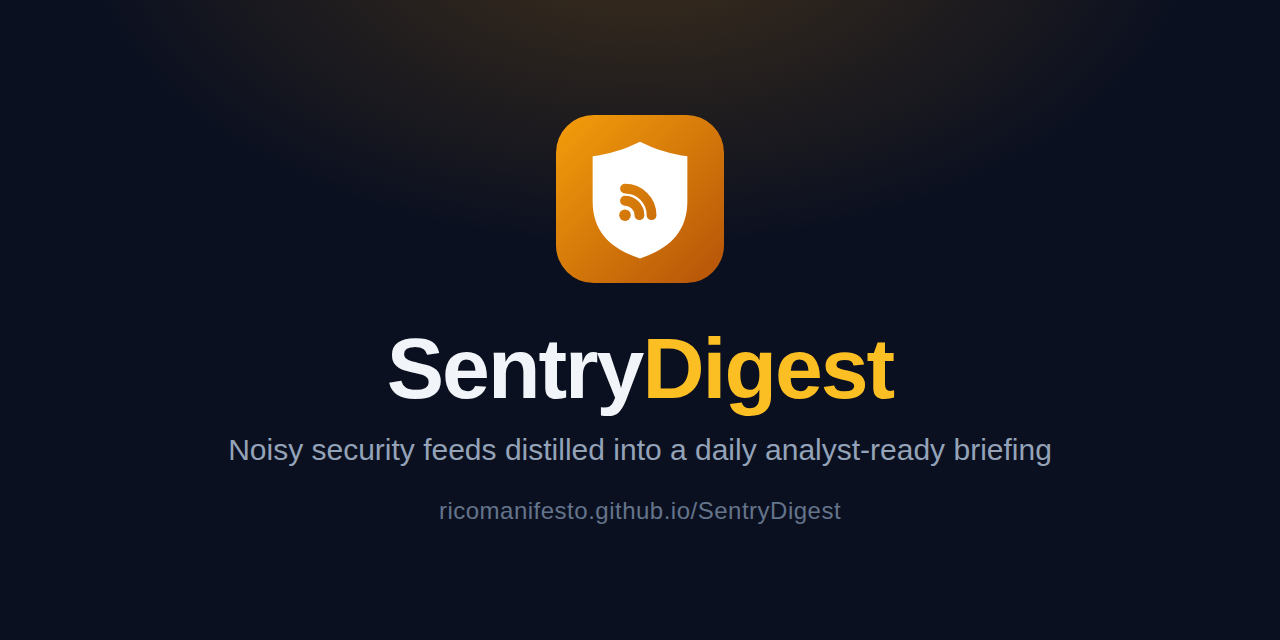
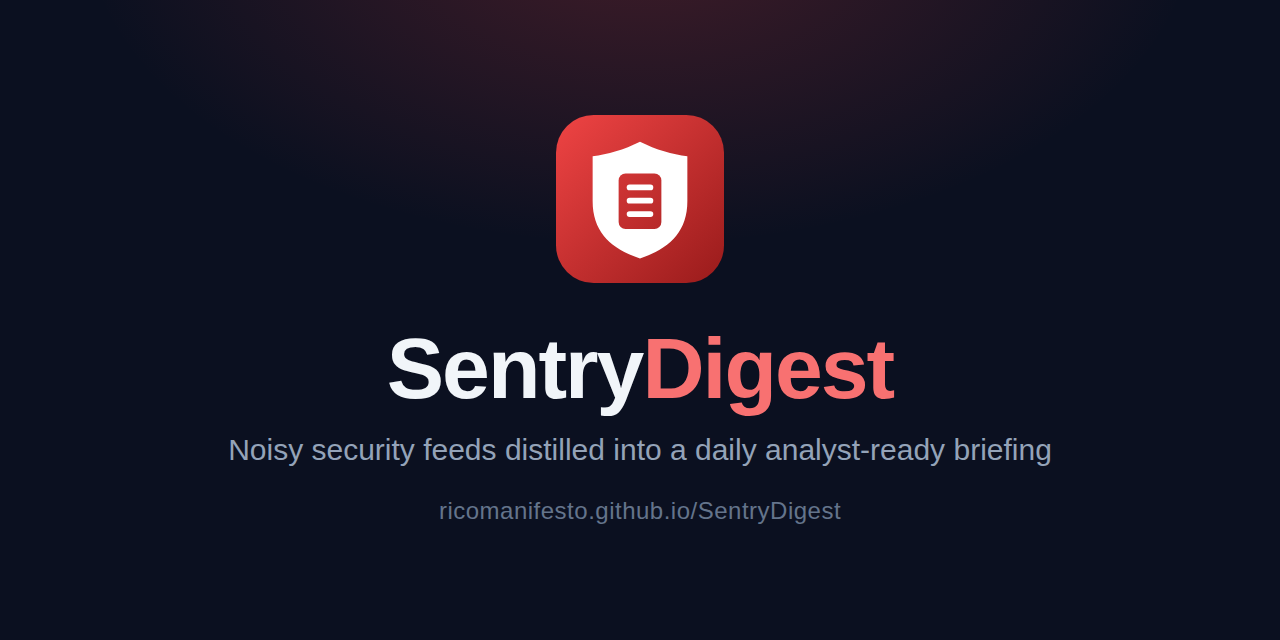
Adopt shared sentinel-shield mark across the suite
Move SentryDigest onto the shared family system: one constant red
shield silhouette, one glyph per product. SentryDigest takes the
briefing document, replacing the amber shield and RSS wave.

- assets/icon-small.svg: new optically corrected master for <=48px
  exports. Three document rules merge into a solid block when
  rasterised at favicon size, so the small variant drops to two
  heavier rules. favicon.ico is built from this variant; larger
  surfaces still use the master.
- Lockups and social card regenerated in the family red
- theme-color moves off the retired amber to the dashboard's own
  accent, so mobile browser chrome still blends with the page

Changed region(s): [[0.4375, 0.1562, 0.5625, 0.4688], [0.5, 0.5312, 0.7188, 0.6562]]

diff --git a/scripts/render-news-html.js b/scripts/render-news-html.js
@@ -643,7 +643,7 @@ function generateHTML(newsItems, options = {}) {
   <link rel="icon" type="image/svg+xml" href="./assets/icon.svg">
   <link rel="apple-touch-icon" href="./assets/apple-touch-icon.png">
   <link rel="manifest" href="./site.webmanifest">
-  <meta name="theme-color" content="#d97706">
+  <meta name="theme-color" content="#2563eb">
   <style>
     :root { 
       --bg: #f7f8fa; 

diff --git a/index.html b/index.html
@@ -22,7 +22,7 @@
   <link rel="icon" type="image/svg+xml" href="./assets/icon.svg">
   <link rel="apple-touch-icon" href="./assets/apple-touch-icon.png">
   <link rel="manifest" href="./site.webmanifest">
-  <meta name="theme-color" content="#d97706">
+  <meta name="theme-color" content="#2563eb">
   <style>
     :root { 
       --bg: #f7f8fa; 
